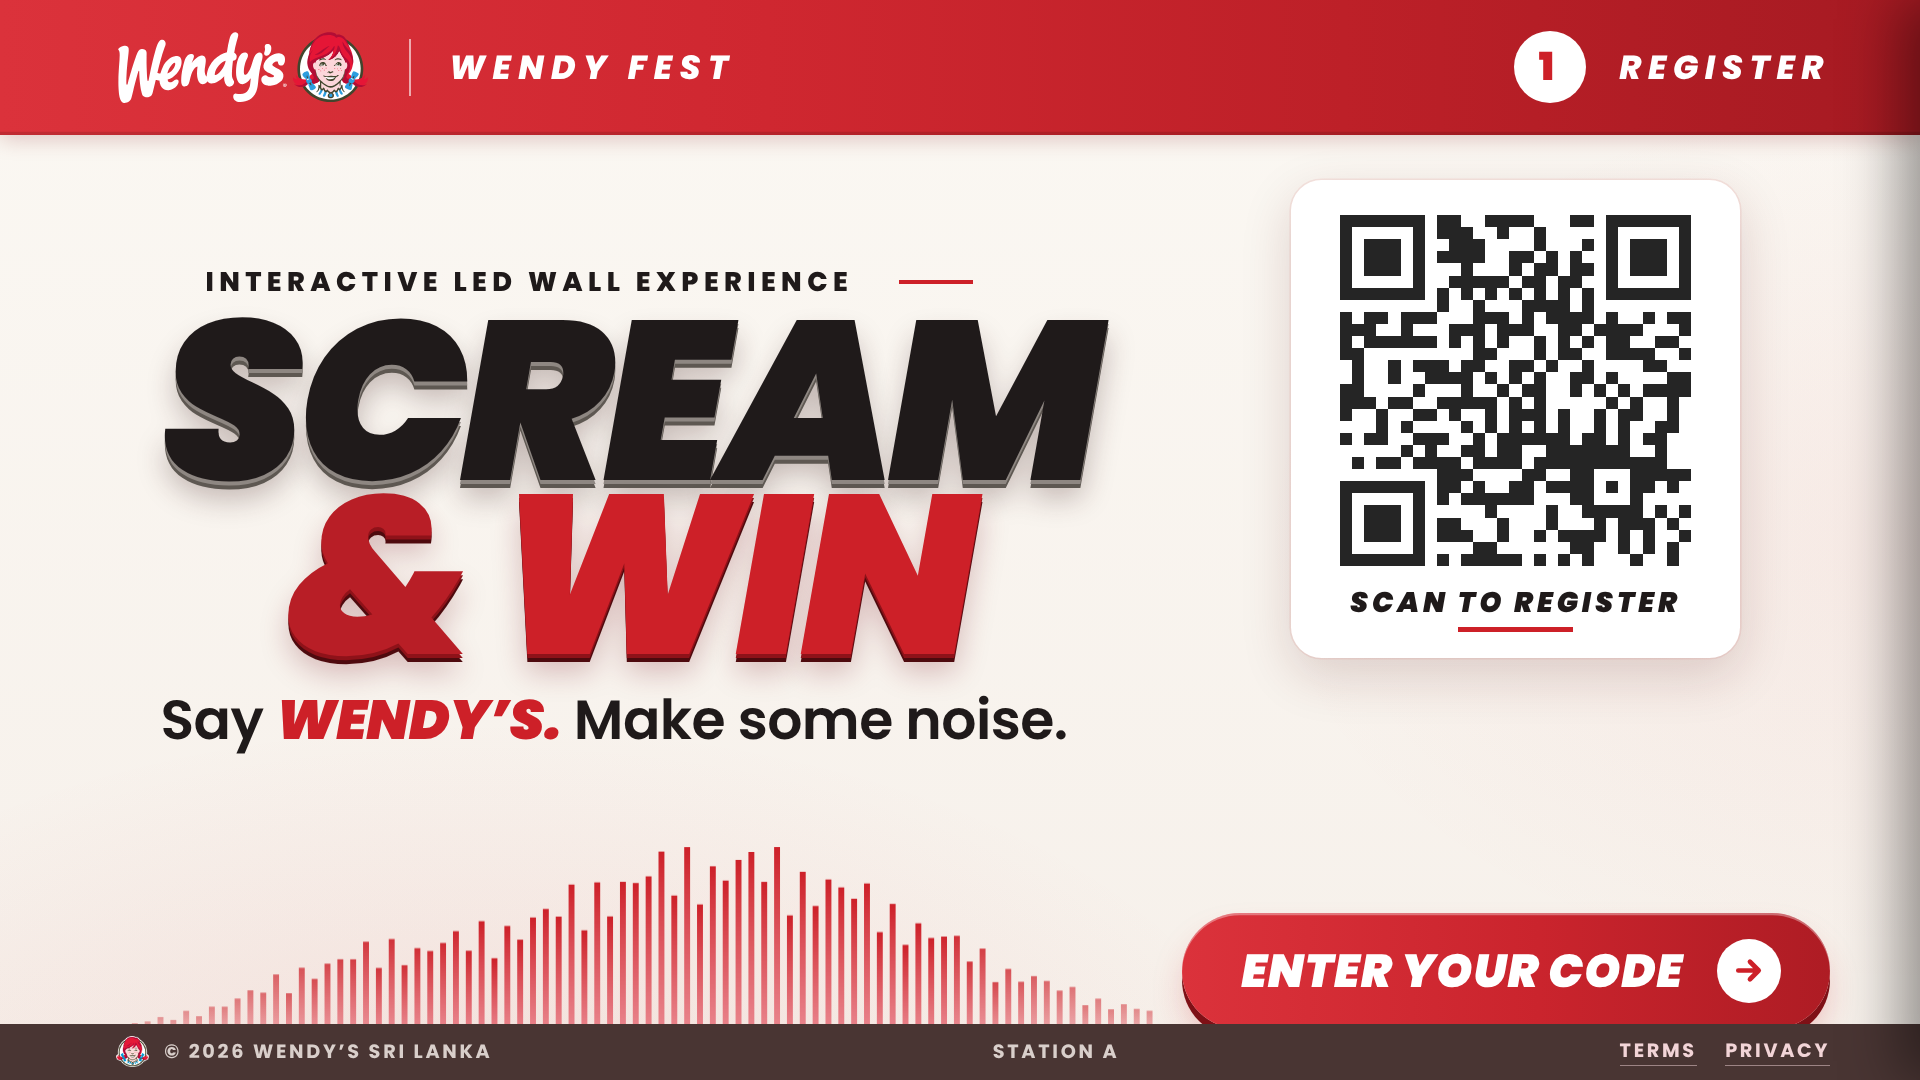
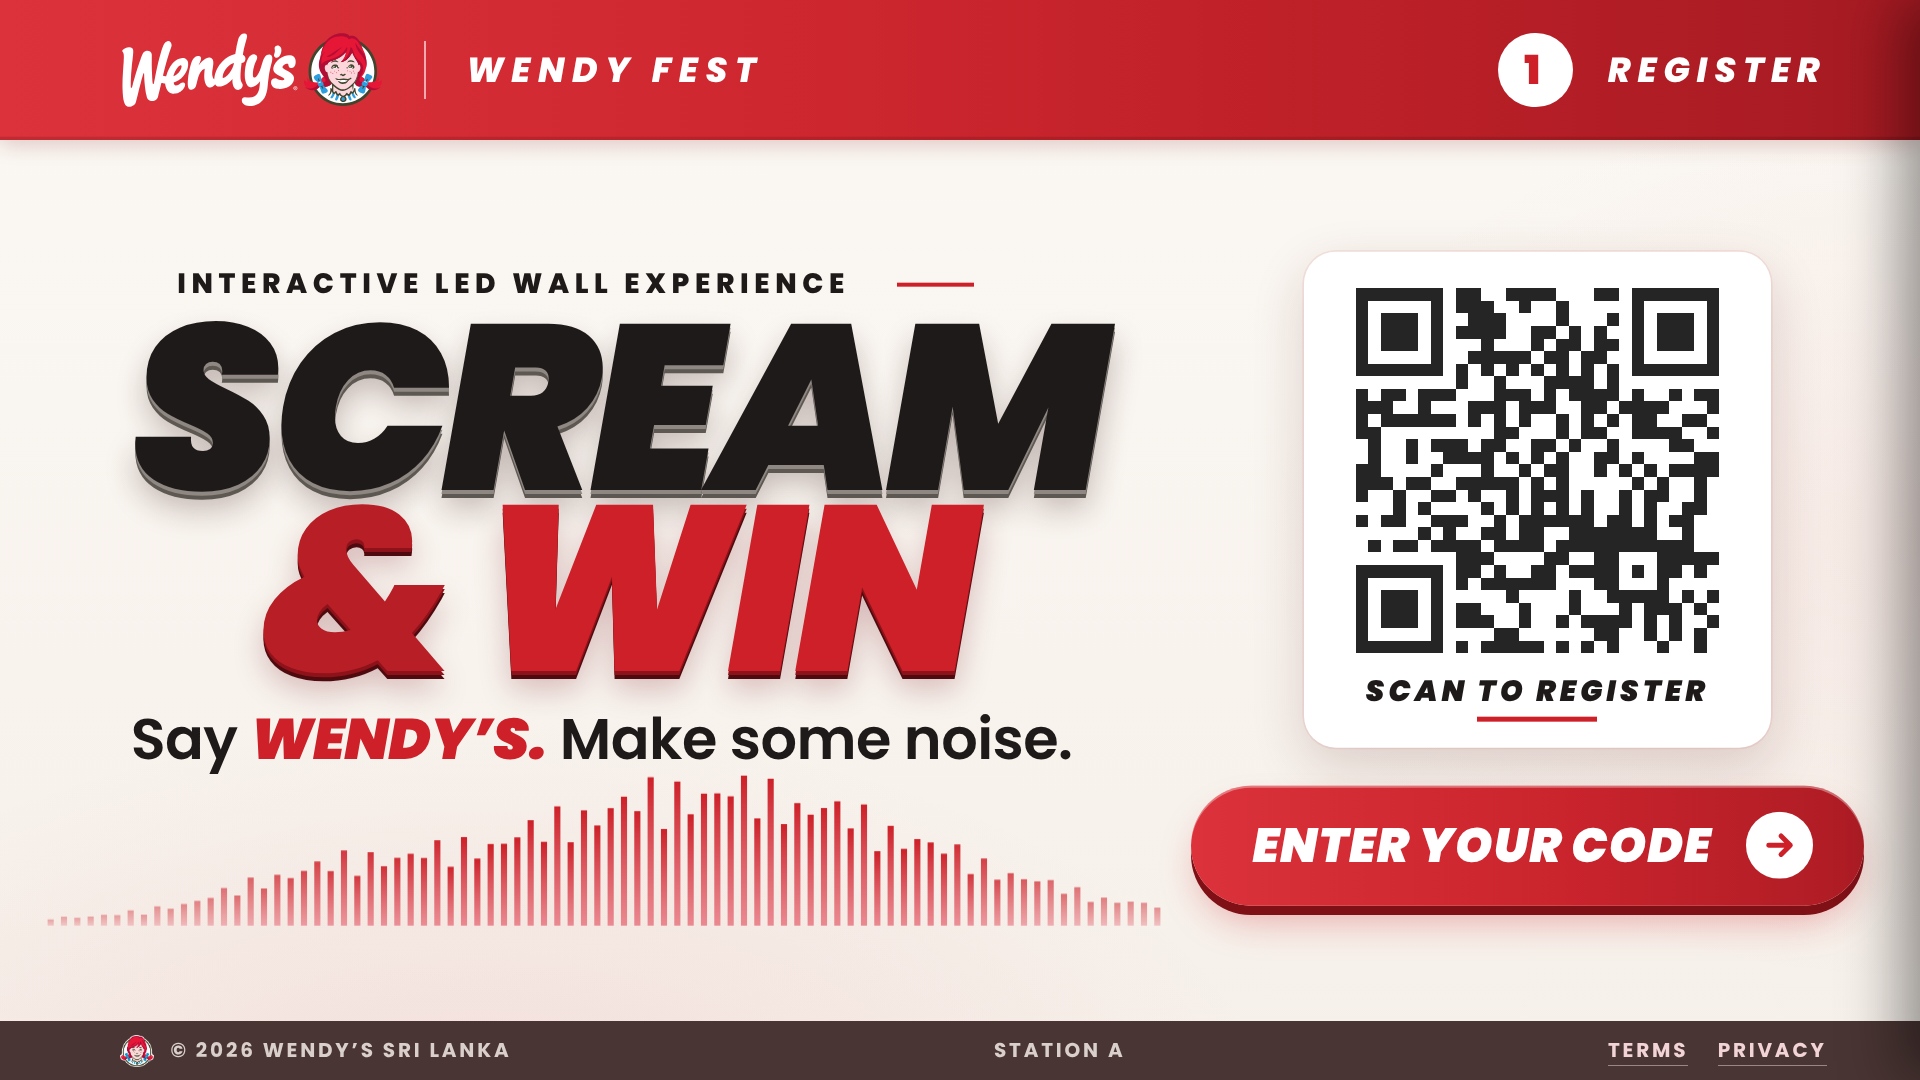
Studio Cream: Register composition scaled to width and centred between header and footer
Claude-Session: https://claude.ai/code/session_015MHPvZ3kkn8jw5YatKY7r4

Changed region(s): [[0.0312, 0.1833, 0.9688, 1.0], [0.0, 0.0306, 1.0, 0.1528], [0.4688, 0.2444, 0.5, 0.275]]

diff --git a/public/kiosk/scream-cream.html b/public/kiosk/scream-cream.html
@@ -6,7 +6,7 @@
 <link rel="stylesheet" href="/css/brand.css">
 <style>
 /* ================= STUDIO CREAM · Scream & Win ================= */
-:root { --u:calc(100vw / 1495); --v:var(--u); --red:#CD2028; --red2:#DA2A33; --red-dark:#8E141B; --ink:#1F1A1A; --cream:#F7F2EC; --blush:#F2D4D7; --cyan:#29C9E0; --line:rgba(205,32,40,.18); }
+:root { --u:calc(100vw / 1440); --v:var(--u); --red:#CD2028; --red2:#DA2A33; --red-dark:#8E141B; --ink:#1F1A1A; --cream:#F7F2EC; --blush:#F2D4D7; --cyan:#29C9E0; --line:rgba(205,32,40,.18); }
 html, body { height:100%; overflow:hidden; }
 body { margin:0; background:var(--cream); color:var(--ink); font-family:Poppins,'Noto Sans Sinhala','Noto Sans Tamil',system-ui,sans-serif; user-select:none; cursor:default; }
 .stage { position:relative; width:100vw; height:100vh; overflow:hidden; background:var(--cream); }
@@ -51,20 +51,21 @@ body { margin:0; background:var(--cream); color:var(--ink); font-family:Poppins,
 .help::before, .help::after { content:""; width:5vmin; height:.25vmin; background:var(--red); }
 .help i { display:none; }
 .vr { width:.25vmin; height:5vmin; background:var(--line); }
-/* idle · laid out on the reference banner grid (1495 x 668), uniform scale */
-.idle.on { display:block; padding:0; top:calc(105 * var(--u)); bottom:0; }
-.idle .left { position:absolute; left:calc(125 * var(--u)); top:calc(40 * var(--u)); bottom:calc(190 * var(--u)); display:grid; gap:0; justify-items:start; align-content:center; }
+/* idle · reference banner grid (1495 x 668) scaled to the width, block centred between header and footer */
+.idle.on { display:block; padding:0; top:calc(105 * var(--u)); bottom:calc(44 * var(--u)); }
+.idle .box { position:absolute; left:0; width:100%; top:50%; height:calc(563 * var(--u)); transform:translateY(-50%); }
+.idle .left { position:absolute; left:calc(98 * var(--u)); top:calc(44 * var(--u)); display:grid; gap:0; justify-items:start; }
 .idle .eyebrow { justify-content:flex-start; font-size:calc(21 * var(--u)); letter-spacing:.2em; margin-left:calc(35 * var(--u)); color:#1F1A1A; } .idle .eyebrow::before { display:none; } .idle .eyebrow::after { width:calc(58 * var(--u)); height:calc(3 * var(--u)); margin-left:calc(22 * var(--u)); }
 .idle .h1 { font-size:calc(176 * var(--u)); line-height:.77; letter-spacing:-.035em; margin-top:calc(10 * var(--u)); }
 .idle .h1 .l1, .idle .h1 .l2 { display:block; } .idle .h1 .amp { color:#B81E26; margin-right:.12em; }
 .idle .h1 .l1 { color:#1F1A1A; text-shadow:0 calc(3 * var(--u)) 0 #8E8782, 0 calc(6 * var(--u)) 0 #5E5852, 0 calc(14 * var(--u)) calc(22 * var(--u)) rgba(60,30,30,.28); }
 .idle .h1 .amp, .idle .h1 .red { text-shadow:0 calc(3 * var(--u)) 0 #8E1219, 0 calc(6 * var(--u)) 0 #4E0A0E, 0 calc(14 * var(--u)) calc(22 * var(--u)) rgba(120,20,30,.25); }
 .idle .sub { font-size:calc(43 * var(--u)); font-weight:600; margin-top:calc(14 * var(--u)); letter-spacing:-.01em; }
-.idle canvas.wave { position:absolute; left:calc(60 * var(--u)); bottom:calc(34 * var(--u)); width:calc(840 * var(--u)); height:calc(150 * var(--u)); }
-.idle .qrcard { position:absolute; left:calc(1005 * var(--u)); top:calc(35 * var(--u)); width:calc(350 * var(--u)); height:calc(372 * var(--u)); padding:calc(18 * var(--u)) calc(20 * var(--u)) calc(16 * var(--u)); border-radius:calc(24 * var(--u)); gap:calc(6 * var(--u)); align-content:start; box-shadow:0 calc(14 * var(--u)) calc(40 * var(--u)) rgba(80,20,20,.16), 0 0 0 .15vmin rgba(205,32,40,.08); }
+.idle canvas.wave { position:absolute; left:calc(33 * var(--u)); top:calc(428 * var(--u)); width:calc(840 * var(--u)); height:calc(112 * var(--u)); }
+.idle .qrcard { position:absolute; left:calc(978 * var(--u)); top:calc(35 * var(--u)); width:calc(350 * var(--u)); height:calc(372 * var(--u)); padding:calc(18 * var(--u)) calc(20 * var(--u)) calc(16 * var(--u)); border-radius:calc(24 * var(--u)); gap:calc(6 * var(--u)); align-content:start; box-shadow:0 calc(14 * var(--u)) calc(40 * var(--u)) rgba(80,20,20,.16), 0 0 0 .15vmin rgba(205,32,40,.08); }
 .idle .qrcard img { width:calc(292 * var(--u)); height:calc(292 * var(--u)); } .idle .qrcard b { font-size:calc(22 * var(--u)); letter-spacing:.14em; white-space:nowrap; } .idle .qrcard b::after { width:calc(90 * var(--u)); height:calc(4 * var(--u)); margin-top:calc(7 * var(--u)); }
 .stage:has(#s-idle.on) .gear { display:none; }
-.idle .cta-wrap { position:absolute; left:calc(920 * var(--u)); bottom:calc(40 * var(--u)); }
+.idle .cta-wrap { position:absolute; left:calc(893 * var(--u)); top:calc(435 * var(--u)); }
 .idle .btn { width:calc(505 * var(--u)); height:calc(90 * var(--u)); font-size:calc(36 * var(--u)); white-space:nowrap; padding:0 calc(20 * var(--u)) 0 calc(28 * var(--u)); gap:calc(26 * var(--u)); justify-content:center; letter-spacing:.02em; background:linear-gradient(90deg, #DB323B 0%, #CA242D 55%, #AE1C24 100%); box-shadow:0 calc(7 * var(--u)) 0 #7E1016, 0 calc(16 * var(--u)) calc(30 * var(--u)) -1vmin rgba(205,32,40,.4), inset 0 .2vmin 0 rgba(255,255,255,.35); }
 .idle .btn::after { width:calc(50 * var(--u)); height:calc(50 * var(--u)); }
 /* code */
@@ -161,7 +162,7 @@ canvas.wave { width:70vw; height:12vmin; display:block; }
     <button class="btn" id="pin-go">Unlock</button></div></section>
 
   <!-- IDLE -->
-  <section class="screen on idle" id="s-idle">
+  <section class="screen on idle" id="s-idle"><div class="box">
     <div class="left">
       <div class="eyebrow rise">Interactive LED wall experience</div>
       <h1 class="display h1 rise-2"><span class="l1">Scream</span><span class="l2"><span class="amp">&amp;</span><span class="red">Win</span></span></h1>
@@ -170,7 +171,7 @@ canvas.wave { width:70vw; height:12vmin; display:block; }
     <canvas class="wave" id="wave-idle"></canvas>
     <div class="card qrcard rise-2"><img id="qr-reg" alt="QR"><b>Scan to register</b></div>
     <div class="cta-wrap rise-3"><button class="btn" id="start">Enter your code</button></div>
-  </section>
+  </div></section>
 
   <!-- CODE -->
   <section class="screen" id="s-code"><div class="codegrid">
